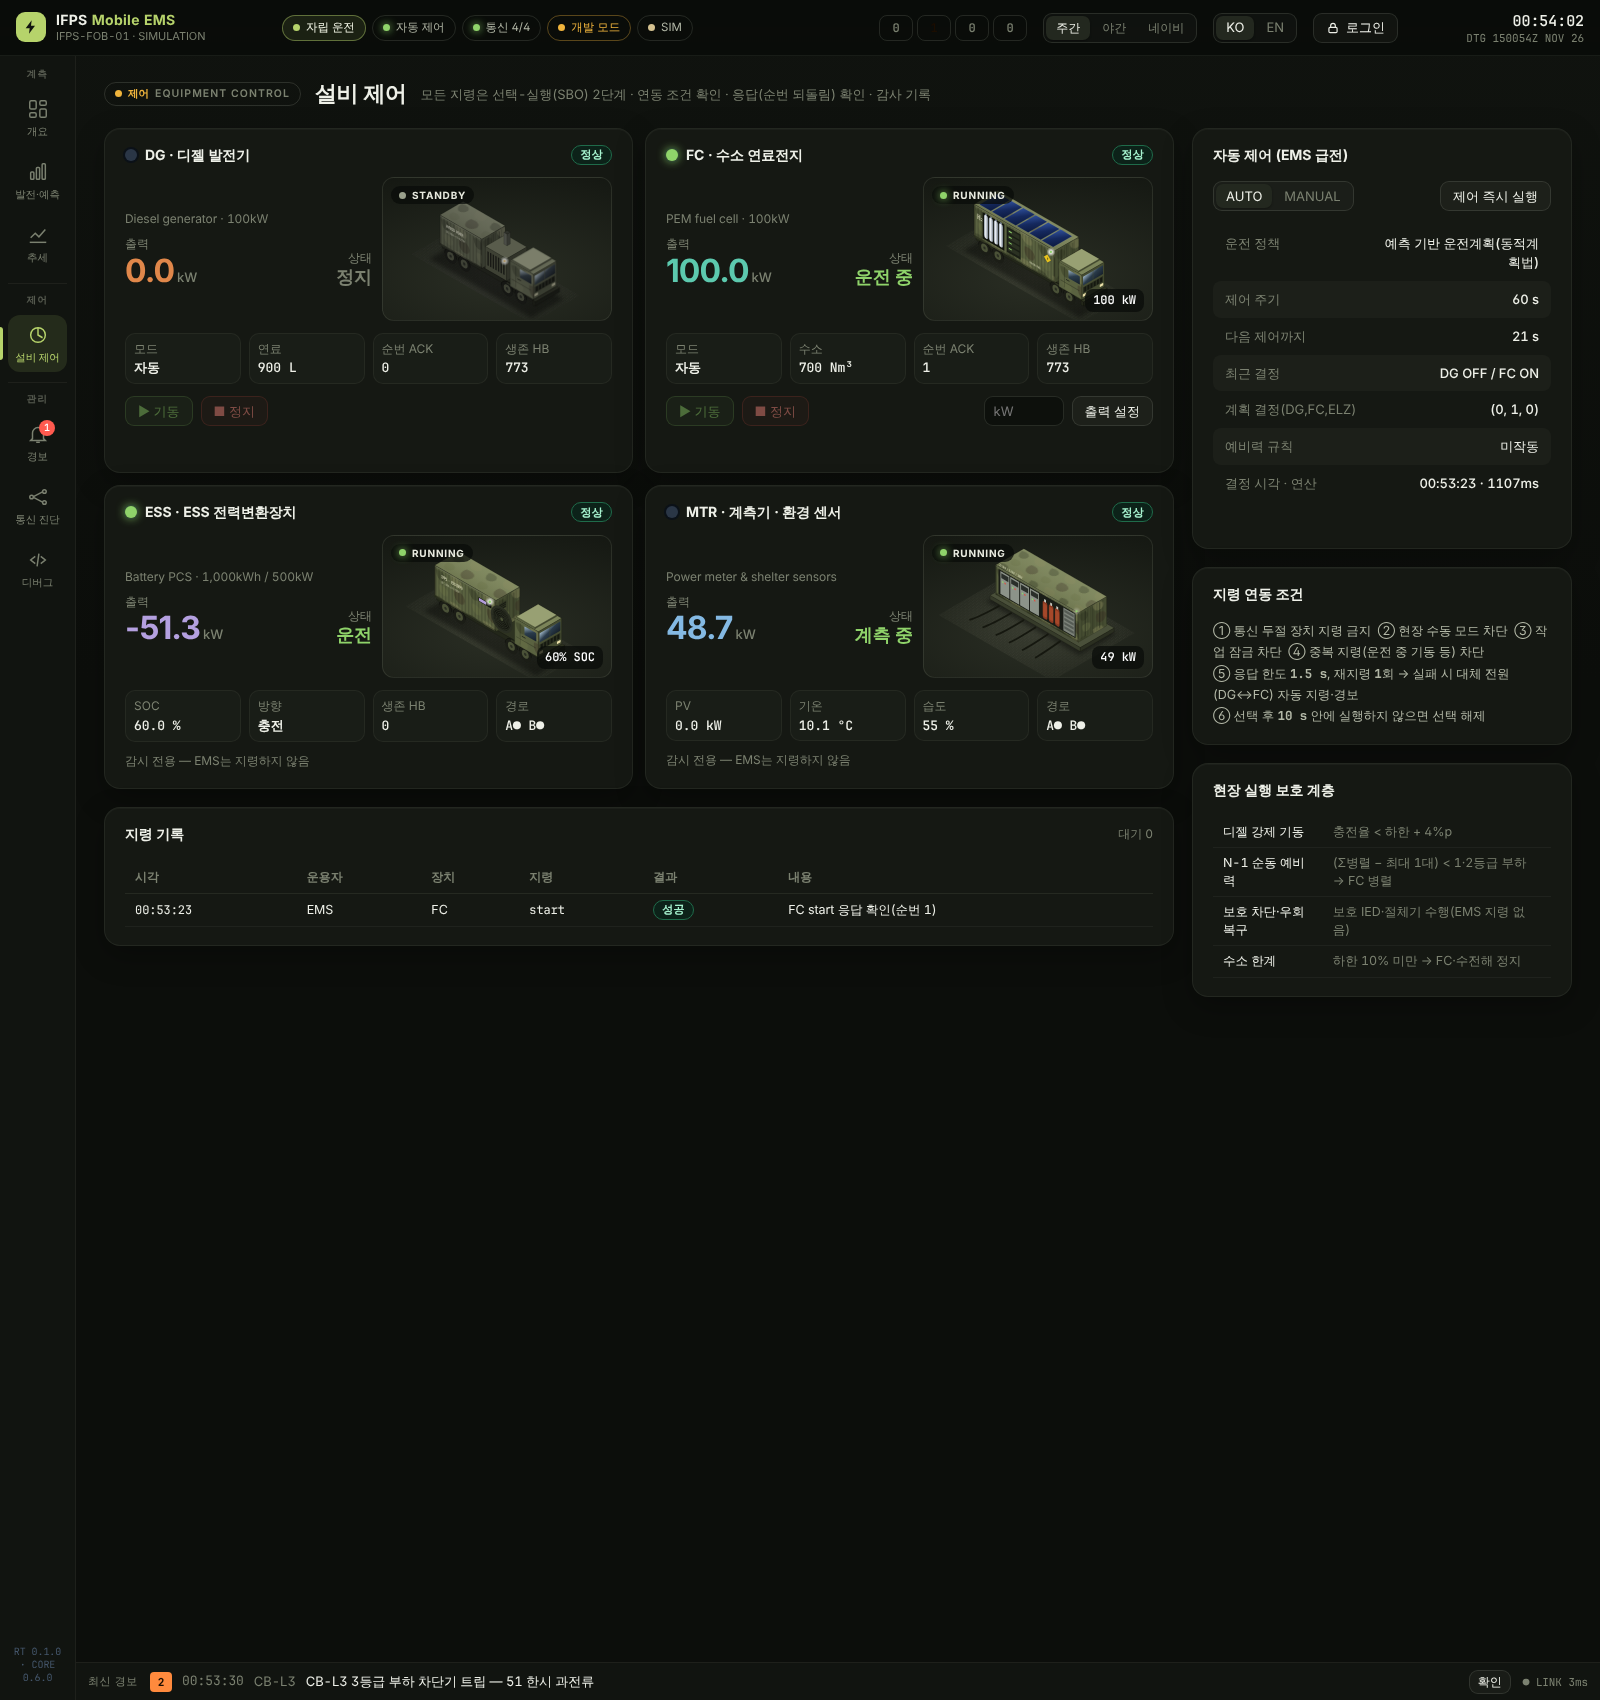
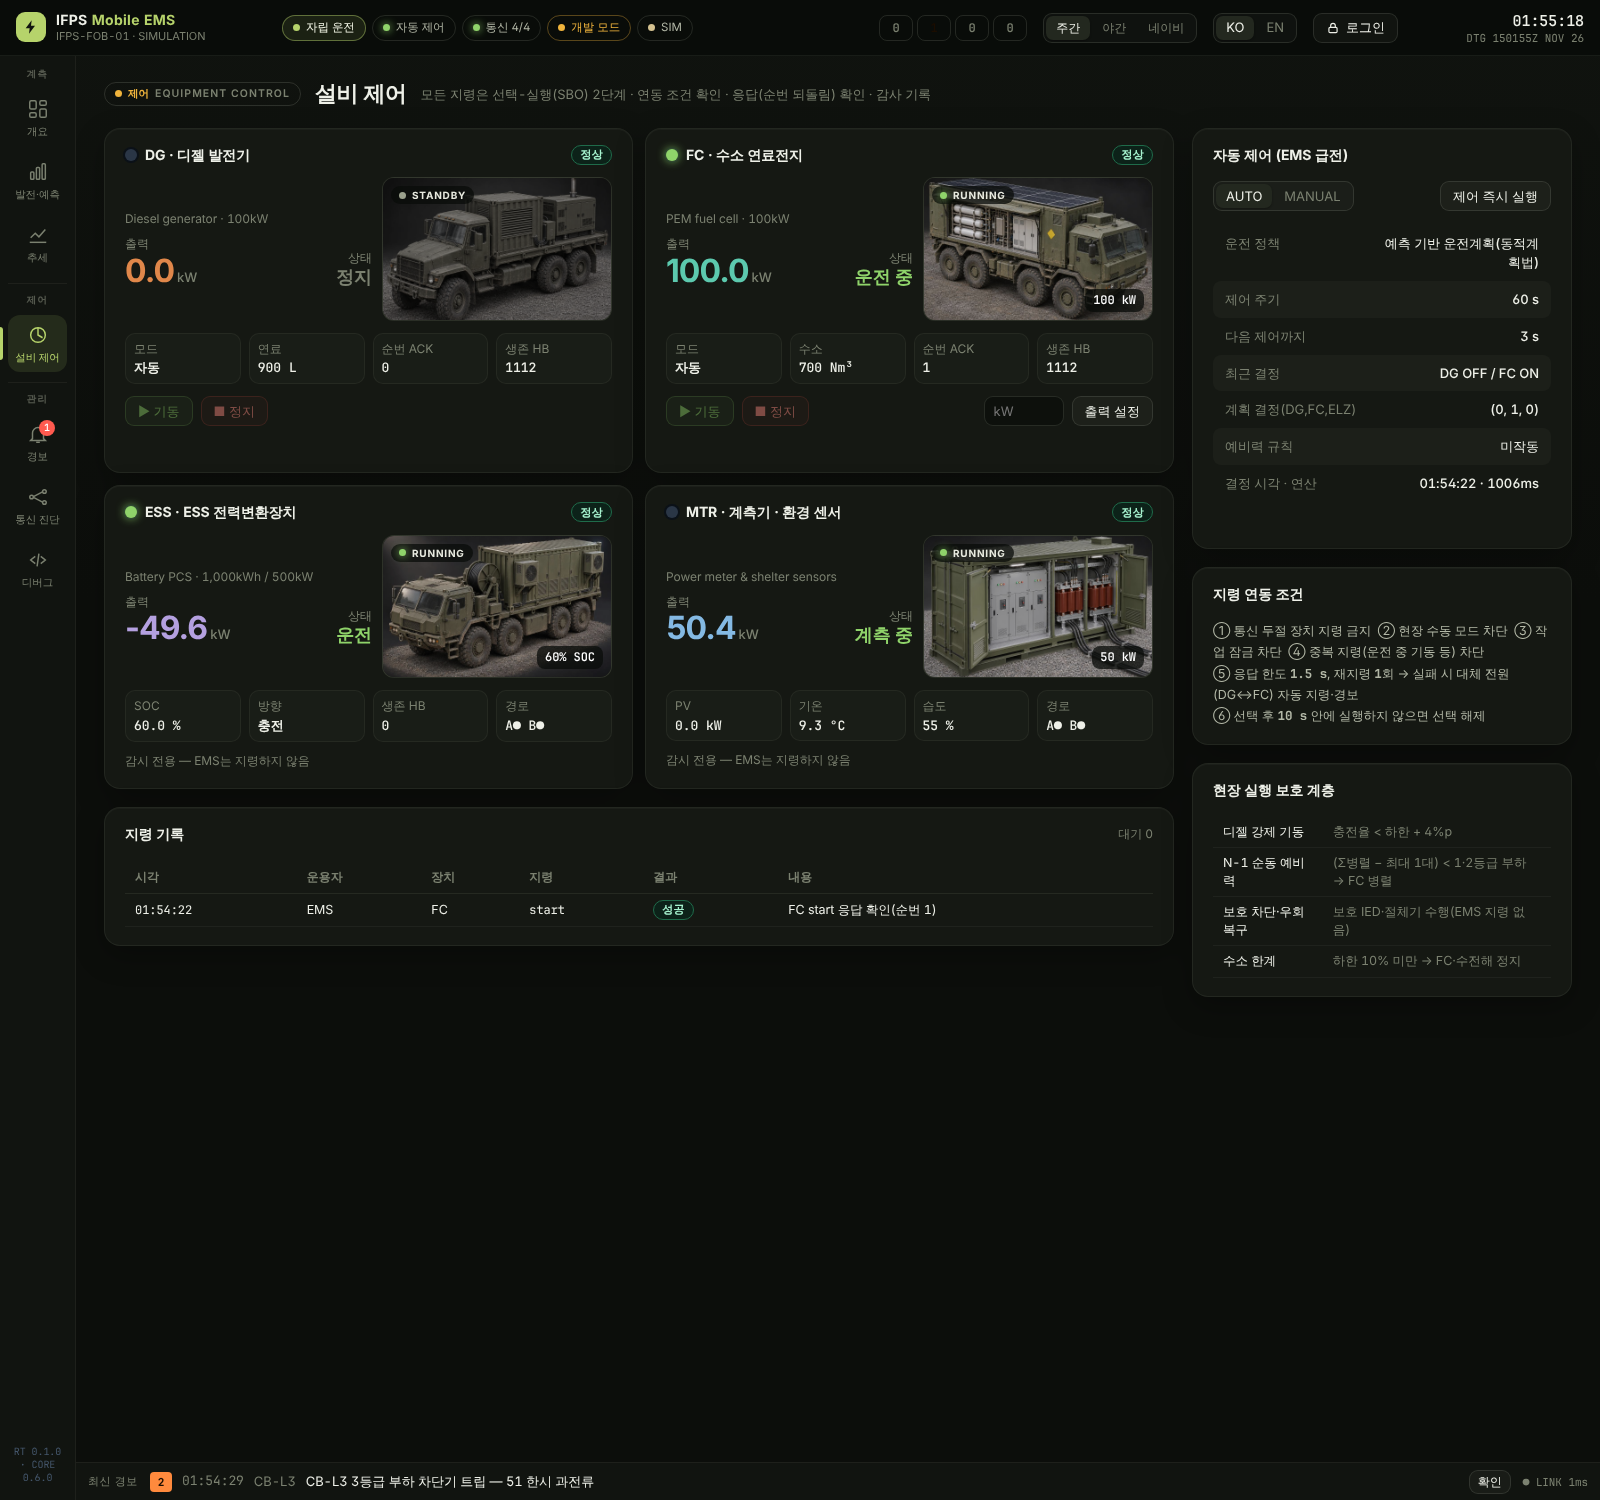
feat(mobile_ems): photoreal AI equipment sprites on deployment map and one-line diagram, photo cards
- 11 transparent isometric sprites (WebP, 772 KB) matched to the map projection; state via SVG filters (off dimmed, trip/loss red)
- 11 photoreal card photos; vector art kept as automatic fallback
- map state now follows breaker trip/open per bound feeder

Claude-Session: https://claude.ai/code/session_01LA7MXdZMW4gUQZvBygoRnA

diff --git a/mobile_ems/ifps_ems_rt/hmi/static/site.js b/mobile_ems/ifps_ems_rt/hmi/static/site.js
@@ -18,7 +18,16 @@ function siteState(s) {
   return out;
 }
 /* 장비 카드: photos/ 폴더에 실사 이미지가 있으면 사진, 없으면 자체 벡터 일러스트 + 상태 띠 */
-api("/api/photos").then(r => { S.photos = r.files || []; }).catch(() => { S.photos = []; });
+api("/api/photos").then(r => { S.photos = r.files || []; S.sprites = r.sprite_meta || {}; const b = $("#siteMap"); if (b) b.dataset.sig = ""; document.querySelectorAll("[id^=art-]").forEach(g => g.dataset.sig = ""); }).catch(() => { S.photos = []; S.sprites = {}; });
+const SPR_KEY = { DG: "dg", G1: "dg", ESS: "ess", PV: "pv", FC: "fc", DIST: "dist", MTR: "dist", EMS: "ems", FSU: "fsu", L1: "l1", L2: "l2", L3: "l3", BARRACK: "barrack" };
+/* 실사 스프라이트(투명 배경). 상태: 정지 → 채도·밝기 낮춤, 고장·두절 → 적색 착색 */
+function spriteSvg(kind, st, cx, by, w) {
+  const k = SPR_KEY[kind], m = S.sprites && S.sprites[k]; if (!m) return null;
+  const h = w * m.h / m.w, f = st.lost || st.fault ? "url(#spBad)" : st.on === false ? "url(#spOff)" : "";
+  return `<image href="sprites/${m.file}" x="${(cx - w / 2).toFixed(1)}" y="${(by - h).toFixed(1)}" width="${w.toFixed(1)}" height="${h.toFixed(1)}" preserveAspectRatio="xMidYMax meet" ${f ? `filter="${f}"` : ""}/>`;
+}
+const SPRITE_FILTERS = `<filter id="spOff"><feColorMatrix type="saturate" values=".25"/><feComponentTransfer><feFuncR type="linear" slope=".7"/><feFuncG type="linear" slope=".7"/><feFuncB type="linear" slope=".7"/></feComponentTransfer></filter>
+  <filter id="spBad"><feColorMatrix type="matrix" values=".6 .3 .1 0 .18  .15 .3 .05 0 0  .15 .2 .05 0 0  0 0 0 1 0"/></filter>`;
 function equipPhoto(kind, st = {}) {
   const cls = st.lost || st.fault ? "bad" : st.on ? "ok" : "idle";
   const tag = st.lost ? "COMM LOSS" : st.fault ? "FAULT" : st.on ? "RUNNING" : "STANDBY";
@@ -90,6 +99,10 @@ function layCables(items) {
 function mapEqSt(s, it) {
   const k = s.kpi, D = s.devices, lost = n => D[n] && D[n].link === "두절", b = it.bind;
   if (it.kind === "FSU") return { on: true };
+  const gw = D.MTR && D.MTR.link !== "두절", cbF = { G1: "G1", ESS: "ESS", PV: "PV", FC: "FC", L1: "L1", L2: "L2", L3: "L3" }[b];
+  const c = cbF && gw ? Math.round(val("CB." + cbF) ?? 1) : 1;
+  if (c === 2) return { on: false, fault: true };                      // 차단기 트립 → 고장 표시
+  if (c === 0) return { on: false };                                   // 차단기 개방 → 정지 표시
   return ({ G1: { on: D.DG.on, lost: lost("DG") }, ESS: { on: true, lost: lost("ESS"), soc: Math.round(k.soc / 5) * 5 }, PV: { on: k.pv > .5 }, FC: { on: D.FC.on, lost: lost("FC") },
     DIST: { on: true, lost: lost("MTR") }, EMS: { on: true } })[b] || { on: true };
 }
@@ -101,7 +114,7 @@ function siteMapSvg(s) {
     <radialGradient id="mGnd" cx="50%" cy="55%" r="70%"><stop offset="0" stop-color="#4a4b40"/><stop offset=".7" stop-color="#34362c"/><stop offset="1" stop-color="#22241c"/></radialGradient>
     <pattern id="mGv" patternUnits="userSpaceOnUse" width="22" height="16"><circle cx="3" cy="3" r="1.6" fill="#5c5d50"/><circle cx="14" cy="8" r="1.3" fill="#2b2c25"/><circle cx="8" cy="13" r="1.1" fill="#66675a"/><circle cx="19" cy="14" r="1" fill="#3a3b33"/></pattern>
     <pattern id="mTr" patternUnits="userSpaceOnUse" width="14" height="10"><circle cx="4" cy="5" r="4" fill="#253019"/><circle cx="11" cy="3" r="3.4" fill="#2e3a21"/></pattern>
-    <pattern id="mGrid" patternUnits="userSpaceOnUse" width="40" height="40"><path d="M40 0H0V40" fill="none" stroke="#b6d36b" stroke-opacity=".12" stroke-width="1"/></pattern></defs>
+    ${SPRITE_FILTERS}<pattern id="mGrid" patternUnits="userSpaceOnUse" width="40" height="40"><path d="M40 0H0V40" fill="none" stroke="#b6d36b" stroke-opacity=".12" stroke-width="1"/></pattern></defs>
     <rect width="${MAP_W}" height="${MAP_H}" fill="url(#mSky)"/>
     <path d="M0 150 L120 95 L260 130 L420 60 L560 115 L700 80 L860 120 L1010 55 L1180 105 L1320 70 L1480 110 L1600 80 L1600 260 L0 260Z" fill="url(#mM2)" opacity=".8"/>
     <path d="M0 210 L160 150 L330 200 L470 140 L640 205 L820 150 L980 210 L1150 150 L1330 205 L1480 160 L1600 190 L1600 330 L0 330Z" fill="url(#mM1)"/>
@@ -114,7 +127,7 @@ function siteMapSvg(s) {
   items.slice().sort((a, b) => a.y - b.y).forEach(it => {
     const kind = it.kind === "BARRACK" ? "BARRACK" : it.kind, [Lx, Ly] = ISO_EXT[kind] || ISO_EXT.FSU, [wx, wy] = mapWorld(it.x, it.y), [px, py] = I.p(wx - Lx / 2, wy - Ly / 2, 0);
     const sel = L.edit && L.sel === it.uid;
-    g += `<g class="meq ${L.edit ? "editable" : ""} ${sel ? "sel" : ""}" data-uid="${it.uid}">${sel ? `<ellipse cx="${it.x}" cy="${it.y}" rx="${(Lx + Ly) * ISO_C * MAP_S * .62}" ry="${(Lx + Ly) * ISO_S * MAP_S * .62}" class="msel"/>` : ""}${isoPlace(kind, mapEqSt(s, it), px, py, MAP_S)}</g>`;
+    g += `<g class="meq ${L.edit ? "editable" : ""} ${sel ? "sel" : ""}" data-uid="${it.uid}">${sel ? `<ellipse cx="${it.x}" cy="${it.y}" rx="${(Lx + Ly) * ISO_C * MAP_S * .62}" ry="${(Lx + Ly) * ISO_S * MAP_S * .62}" class="msel"/>` : ""}${spriteSvg(kind, mapEqSt(s, it), it.x, it.y + (Lx + Ly) * ISO_S * MAP_S / 2 + 6, (Lx + Ly) * ISO_C * MAP_S * (kind === "FSU" ? 1.5 : kind === "PV" ? .78 : 1.12)) || isoPlace(kind, mapEqSt(s, it), px, py, MAP_S)}</g>`;
   });
   cab.forEach(([a, b], i) => { const mx = (a[0] + b[0]) / 2, my = (a[1] + b[1]) / 2 + Math.abs(b[0] - a[0]) * .03; g += `<g class="mflt" id="mx-${i}" style="display:none"><circle cx="${mx}" cy="${my}" r="13" fill="#ff5148"/><path d="M${mx - 5} ${my - 5}l10 10M${mx + 5} ${my - 5}l-10 10" stroke="#fff" stroke-width="2.6" stroke-linecap="round"/></g>`; });
   return `<svg viewBox="0 0 ${MAP_W} ${MAP_H}" class="sitemap ${L.edit ? "editing" : ""}" preserveAspectRatio="xMidYMid slice">${g}</svg>`;

diff --git a/mobile_ems/ifps_ems_rt/hmi/static/sld.js b/mobile_ems/ifps_ems_rt/hmi/static/sld.js
@@ -79,7 +79,9 @@ function setFlow(id, kw, cap, on = true) {
 /* 상태 갱신 */
 function sldArt(id, st) {
   const g = document.getElementById("art-" + id); if (!g) return; const sig = JSON.stringify(st); if (g.dataset.sig === sig) return; g.dataset.sig = sig;
-  g.innerHTML = isoArt(EQ_KIND[id] || "DIST", st, 400, 250, 6).replace("<svg ", `<svg x="${g.dataset.x}" y="${g.dataset.y}" width="${g.dataset.w}" height="${g.dataset.h}" `);
+  const x = +g.dataset.x, y = +g.dataset.y, w = +g.dataset.w, h = +g.dataset.h;
+  const sp = spriteSvg(id, st, x + w / 2, y + h - 2, w * .96);
+  g.innerHTML = sp ? `<defs>${SPRITE_FILTERS.replace(/id="sp/g, `id="sp${id}`)}</defs>` + sp.replace(/url\(#sp/g, `url(#sp${id}`) : isoArt(EQ_KIND[id] || "DIST", st, 400, 250, 6).replace("<svg ", `<svg x="${x}" y="${y}" width="${w}" height="${h}" `);
 }
 function sldUpdate(s) {
   const k = s.kpi, D = s.devices, ko = S.lang === "ko", gw = D.MTR && D.MTR.link !== "두절";     // 보호 IED 게이트웨이(MTR) 통신

diff --git a/mobile_ems/ifps_ems_rt/hmi/static/style.css b/mobile_ems/ifps_ems_rt/hmi/static/style.css
@@ -512,3 +512,8 @@ canvas.tspark { display: block; width: calc(100% + 40px); margin: 8px -20px 0; h
 .laybar .grp { display: flex; gap: 8px; align-items: center; } .laybar .grp.end { margin-left: auto; } .laybar .lab { font-size: 11px; }
 .laybar select.in, .laybar input.in { height: 28px; }
 .seg button, .user, .user span { white-space: nowrap; }
+
+/* 실사 스프라이트 */
+.sitemap image { image-rendering: auto; }
+.sitemap .meq { filter: drop-shadow(0 6px 6px rgba(0,0,0,.45)); }
+.sld .hexbg { fill: #20241b; }

diff --git a/mobile_ems/ifps_ems_rt/hmi/engine.py b/mobile_ems/ifps_ems_rt/hmi/engine.py
@@ -723,8 +723,13 @@ class Engine:
         self.rt.note("배치", "작전지 배치 기본값 복원(이전 배치는 layout.json.bak)", actor=who); return {"ok": True}
 
     def photos(self):
-        d = os.path.join(os.path.dirname(os.path.abspath(__file__)), "static", "photos")
-        return {"files": sorted(f for f in os.listdir(d) if f.lower().endswith((".jpg", ".jpeg", ".png", ".webp"))) if os.path.isdir(d) else []}
+        base = os.path.join(os.path.dirname(os.path.abspath(__file__)), "static")
+        ls = lambda d: sorted(f for f in os.listdir(os.path.join(base, d)) if f.lower().endswith((".jpg", ".jpeg", ".png", ".webp"))) if os.path.isdir(os.path.join(base, d)) else []
+        meta = {}
+        mp = os.path.join(base, "sprites", "sprites.json")
+        if os.path.exists(mp):
+            with open(mp, encoding="utf-8") as f: meta = json.load(f)
+        return {"files": ls("photos"), "sprites": ls("sprites"), "sprite_meta": meta}
 
     def energy_hours(self):
         return {"day": self.energy["day"], "cols": ["pv", "dg", "fc", "ess_dis", "load", "ess_chg"], "hours": [[round(x, 3) for x in r] for r in self.energy["hours"]]}
